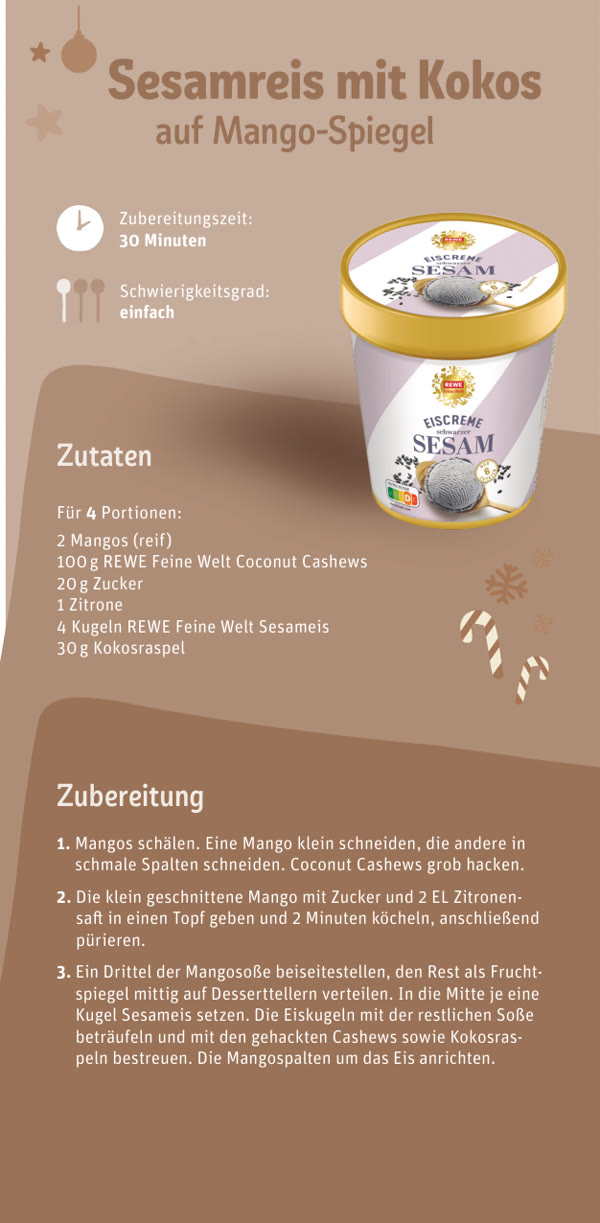
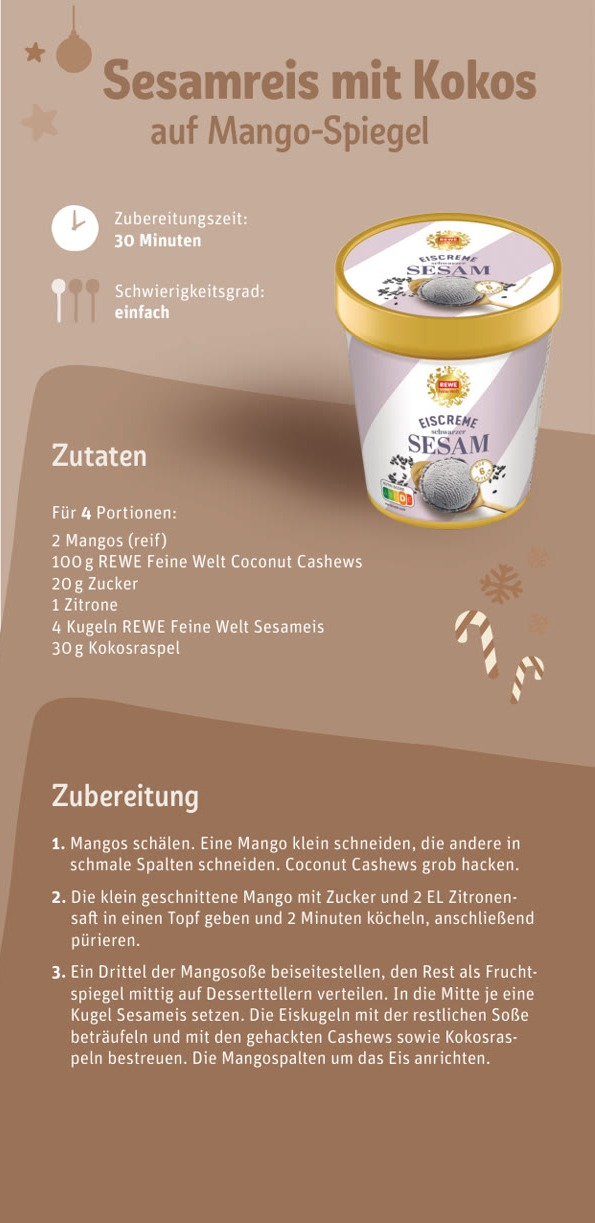
REWE: hässlichen weißen Rand links bei der Rückseite entfernen

diff --git a/lib/projects.ts b/lib/projects.ts
@@ -206,7 +206,7 @@ export const projects: Project[] = [
       { slotId: "detail-7b", ratio: "800/1200", src: "/projects/rewe-art-direction/wassermelonen-eistee.jpg", caption: "Rezeptkommunikation: Wassermelonen-Limetten-Eistee", placeholder: "Foto (Hochformat) hier ablegen" },
       { slotId: "detail-8", ratio: "4/5", caption: "Rezeptkommunikation: Bratlinge mit Pastinaken-Möhren-Gemüse", placeholder: "Foto (Hochformat) hier ablegen" },
       { slotId: "detail-4", ratio: "591/1219", src: "/projects/rewe-art-direction/sesameis.jpg", caption: "Xmas-POS für REWE Feine Welt: Sesamreis mit Kokos auf Mango-Spiegel", placeholder: "Foto (Hochformat) hier ablegen" },
-      { slotId: "detail-4b", ratio: "600/1223", src: "/projects/rewe-art-direction/sesameis-rezept.jpg", caption: "Rückseite mit Zutaten und Zubereitung", placeholder: "Foto (Hochformat) hier ablegen" },
+      { slotId: "detail-4b", ratio: "595/1223", src: "/projects/rewe-art-direction/sesameis-rezept.jpg", caption: "Rückseite mit Zutaten und Zubereitung", placeholder: "Foto (Hochformat) hier ablegen" },
       { slotId: "detail-4c", ratio: "1/1", src: "/projects/rewe-art-direction/neukundenrabatt.jpg", video: "/projects/rewe-art-direction/neukundenrabatt.mp4", caption: "Social-Ad (Video): 20 € Neukundengutschein für den REWE Lieferservice", placeholder: "Video hier ablegen" },
       { slotId: "detail-5", ratio: "1/1", src: "/projects/rewe-art-direction/mitarbeitendenrabatt.jpg", caption: "Recruiting-Sujet: Mitarbeitendenrabatt", placeholder: "Foto (Hochformat) hier ablegen" },
       { slotId: "detail-1", ratio: "1140/1613", src: "/projects/rewe-art-direction/gehwegaufsteller.jpg", caption: "Gehwegaufsteller: Spendenaktion für die Tafeln vor Ort", placeholder: "Foto (Hochformat) hier ablegen" },
